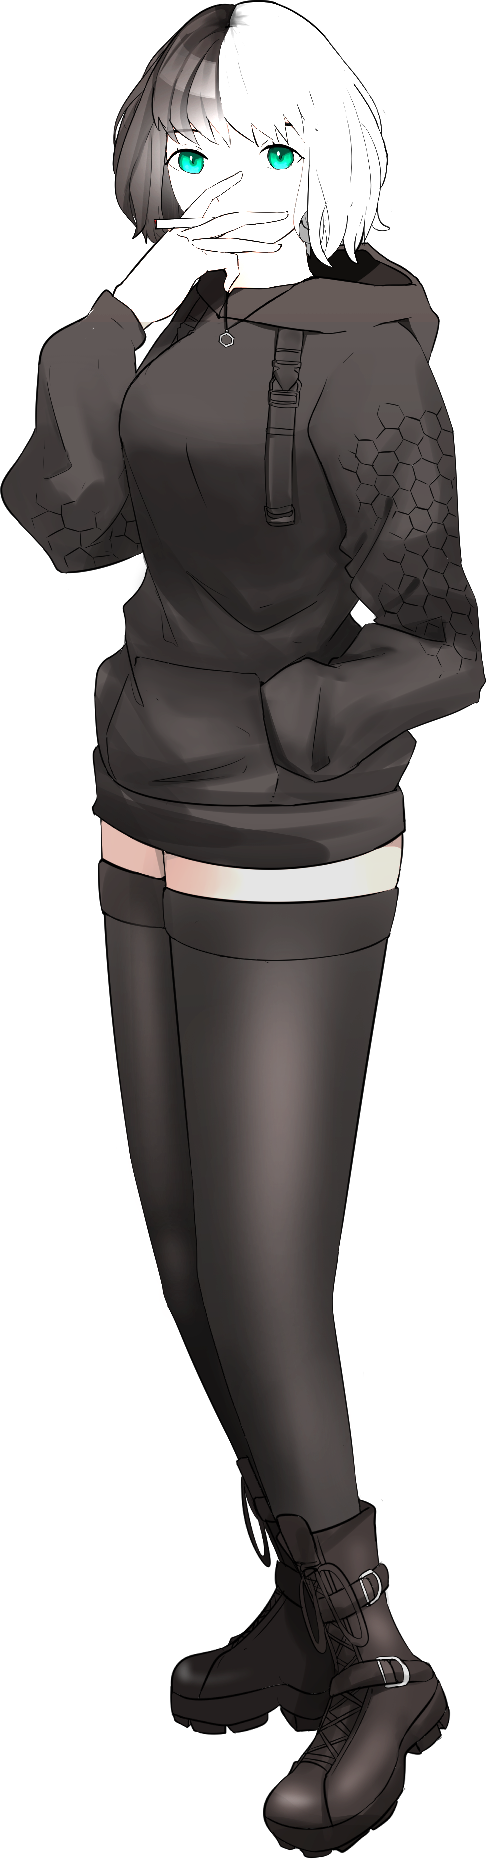
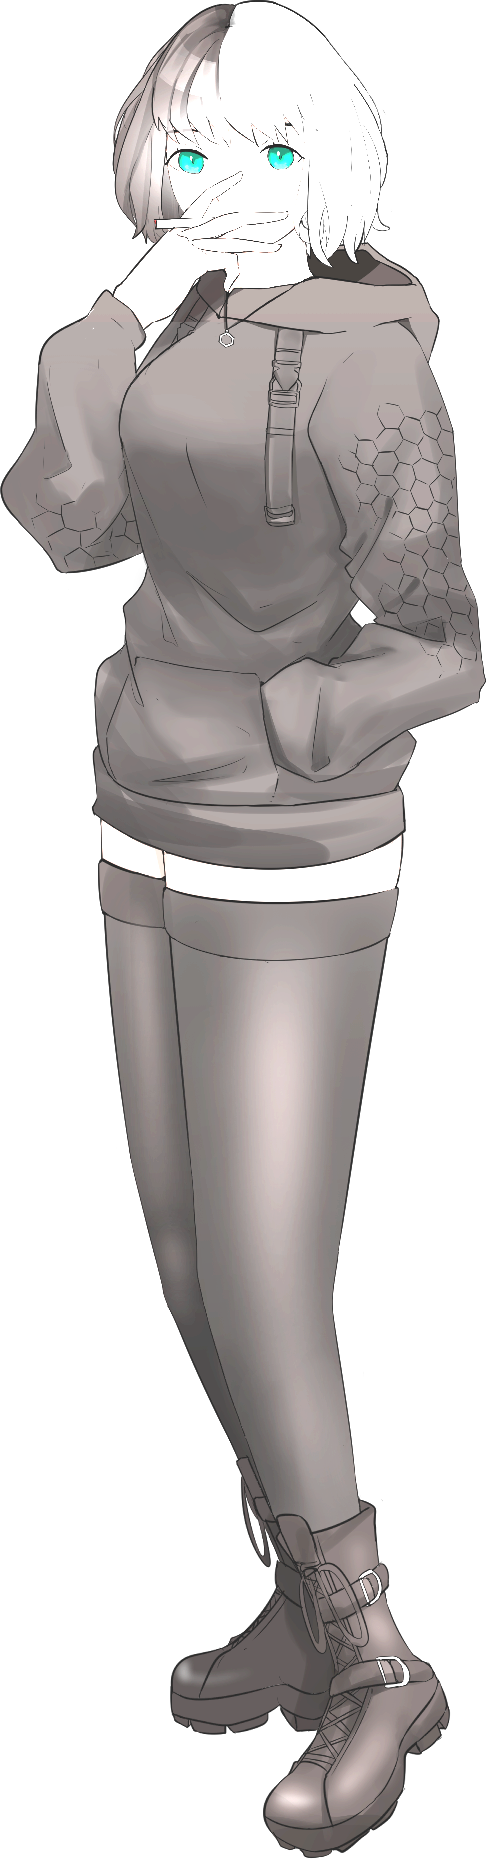
fixup, add interaction map

diff --git a/src/scenes/Porch/Porch.tsx b/src/scenes/Porch/Porch.tsx
@@ -51,9 +51,9 @@ export default function Porch() {
                 maxYaw={45}
             />
 
-            {/* <WadsCam 
+             {/* <WadsCam 
                 defaultPosition="-230 -317 128"
-            /> */}
+            />  */}
 
             <lume-ambient-light intensity={4} />
 
@@ -89,37 +89,30 @@ export default function Porch() {
 
             <Billboard
                 texture={viyaTexture}
-                position="-100 -250 20"
-                scale={1.5}
-                onClick={() => alert("aaaa")}
-                // onHover={(uv) => console.log(uv?.toArray().toString())}
-            ></Billboard>
-
-            <YBillboard
-                    texture={viyaTexture}
-                    size={225}
-                    position="-90 -240 0"
-                    interactions={[
-                        () => addLogMessage(`She doesn't take too kindly to your prodding.`, 'red'),
-                        () => DialogueService.startDialogue(
-                            viya_root, 
-                            {
-                                // overlay: viya_dia_bg, 
-                                canCloseDialogueEarly: true,
-                                cameraHijack: {
-                                    sceneRef,
-                                    targetPosition: "122 -287 151",
-                                    targetOrientation: {yaw: 41, pitch: 2}
-                                }
+                position="-90 -240 0"
+                scale={225}
+                interactions={[
+                    () => addLogMessage(`She doesn't take too kindly to your prodding.`, 'red'),
+                    () => DialogueService.startDialogue(
+                        viya_root, 
+                        {
+                            // overlay: viya_dia_bg, 
+                            canCloseDialogueEarly: true,
+                            cameraHijack: {
+                                sceneRef,
+                                targetPosition: "122 -287 151",
+                                targetOrientation: {yaw: 41, pitch: 2}
                             }
-                        ),
-                        () => addLogMessage(`She is smoking a cigarette.`)
-                    ]}
+                        }
+                    ),
+                    () => addLogMessage(`She is smoking a cigarette.`)
+                ]}
             />
+
             <Show when={showRabbit()}>
-                <YBillboard
+                <Billboard
                         texture={friendTexture}
-                        size={50}
+                        scale={50}
                         position="-70 -266 200"
                         interactions={[
                             () => addLogMessage(`Best not to pet the rabbit. He is in a precarious spot.`),

diff --git a/src/components/lume/Billboard.tsx b/src/components/lume/Billboard.tsx
@@ -3,6 +3,7 @@ import { Plane, toDegrees } from "lume";
 import { MeshBasicMaterial, Vector2, Vector3 } from "three";
 import { onMount } from "solid-js";
 import { interactionCB } from "./Interactable";
+import { currentInteractionMode, InteractionMap } from "../ui/interaction/InteractionModePicker";
 
 const generateAlphaMask = (image: HTMLImageElement) => {
     const offscreenCanvas = document.createElement("canvas");
@@ -29,7 +30,8 @@ export default function Billboard(props: {
     scale?: number,
     position: LumePosition
     onClick?: interactionCB,
-    onHover?: interactionCB
+    onHover?: interactionCB,
+    interactions?: InteractionMap;
 }) {
 
     let me!: Plane
@@ -52,14 +54,21 @@ export default function Billboard(props: {
         const img = new Image();
         img.src = me.texture!
         img.onload = () => {
-            me.size = `${(props.scale ?? 1) * img.width / 10} ${(props.scale ?? 1) * img.height / 10}`;
+            const aspect = img.width / img.height;
+            me.size = `${(props.scale ?? 1) * aspect} ${(props.scale ?? 1)}`;
             maskData = generateAlphaMask(img);
             console.log(maskData.alphaMask);
         }
 
         // Replace / Extend me with interactions config.
-        if(props.onClick) {me.three.userData.onClick = (uv: Vector2) => isOpaque(uv) && props.onClick!(uv)}
         if(props.onHover) {me.three.userData.onHover = (uv: Vector2) => isOpaque(uv) && props.onHover!(uv)}
+
+        me.three.userData.onClick = (uv: Vector2) => {
+            if(isOpaque(uv)) {
+                props.onClick?.(uv);
+                props.interactions?.[currentInteractionMode()]?.(uv);
+            }
+        }
     })
 
     return (
@@ -70,12 +79,18 @@ export default function Billboard(props: {
             texture={props.texture}
             position={props.position}
             ref={me}
-            alpha-test={0.1}
-            cast-shadow
+            opacity="0.9999999999999999" // Weird artifacts when lower than this.
+
+            cast-shadow="false"
+            // enable all of these for a correct shadow.
+            // cast-shadow
+            // alpha-test={0.1}
+            // sidedness="double"
+
             id="bbrd"
-            sidedness="double"
             receive-shadow="false"
             has="basic-material"
+            
             //@ts-ignore
             rotation={(x: number,y:number,z:number) => {
                 const camera = me.scene?.camera
